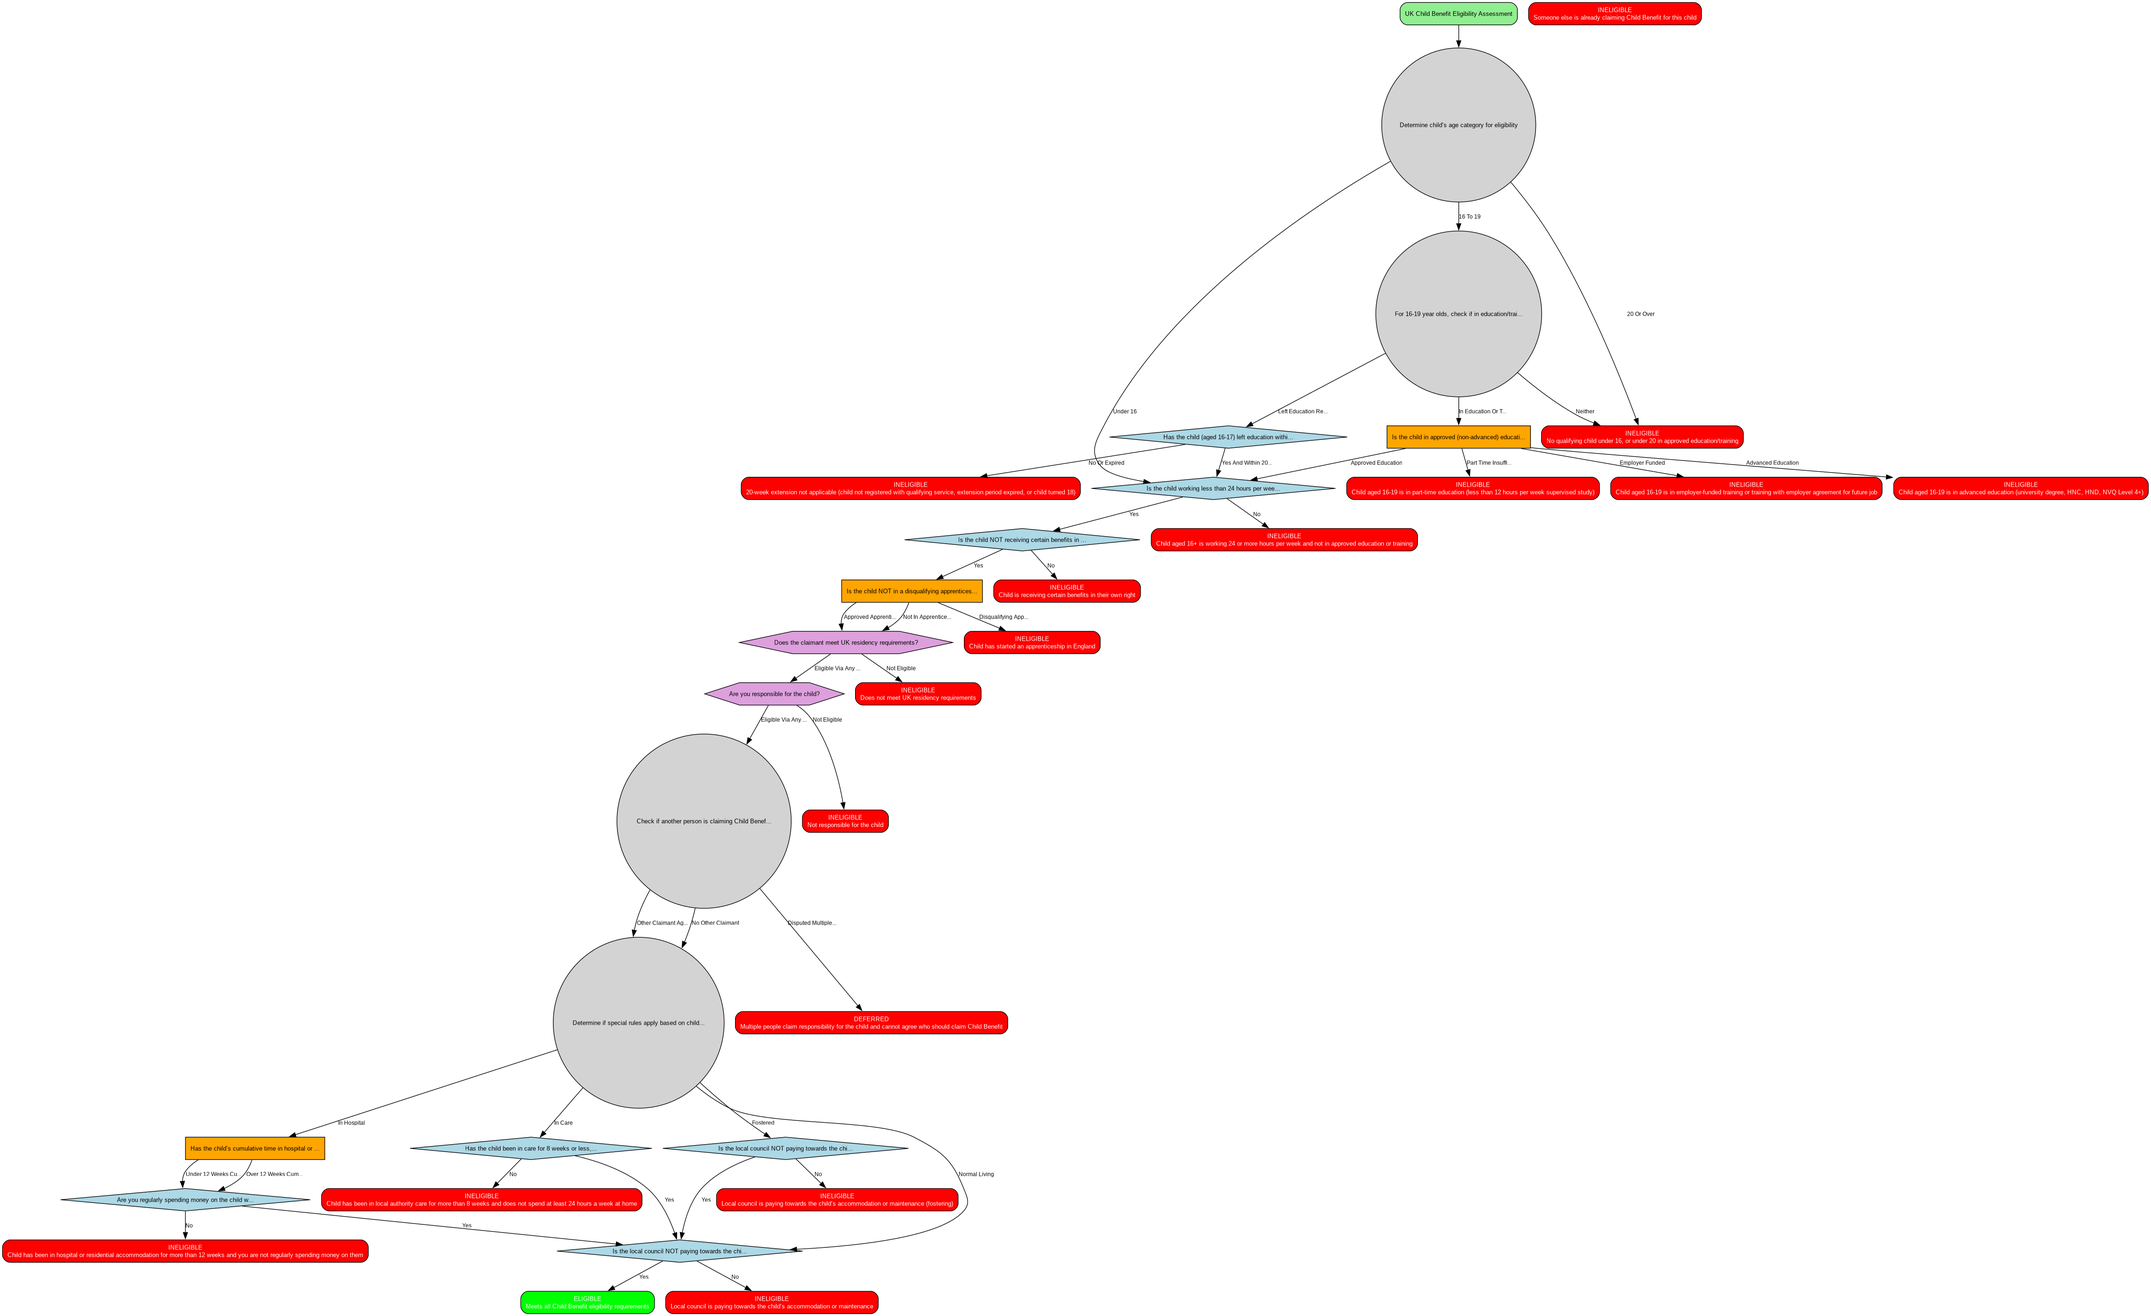
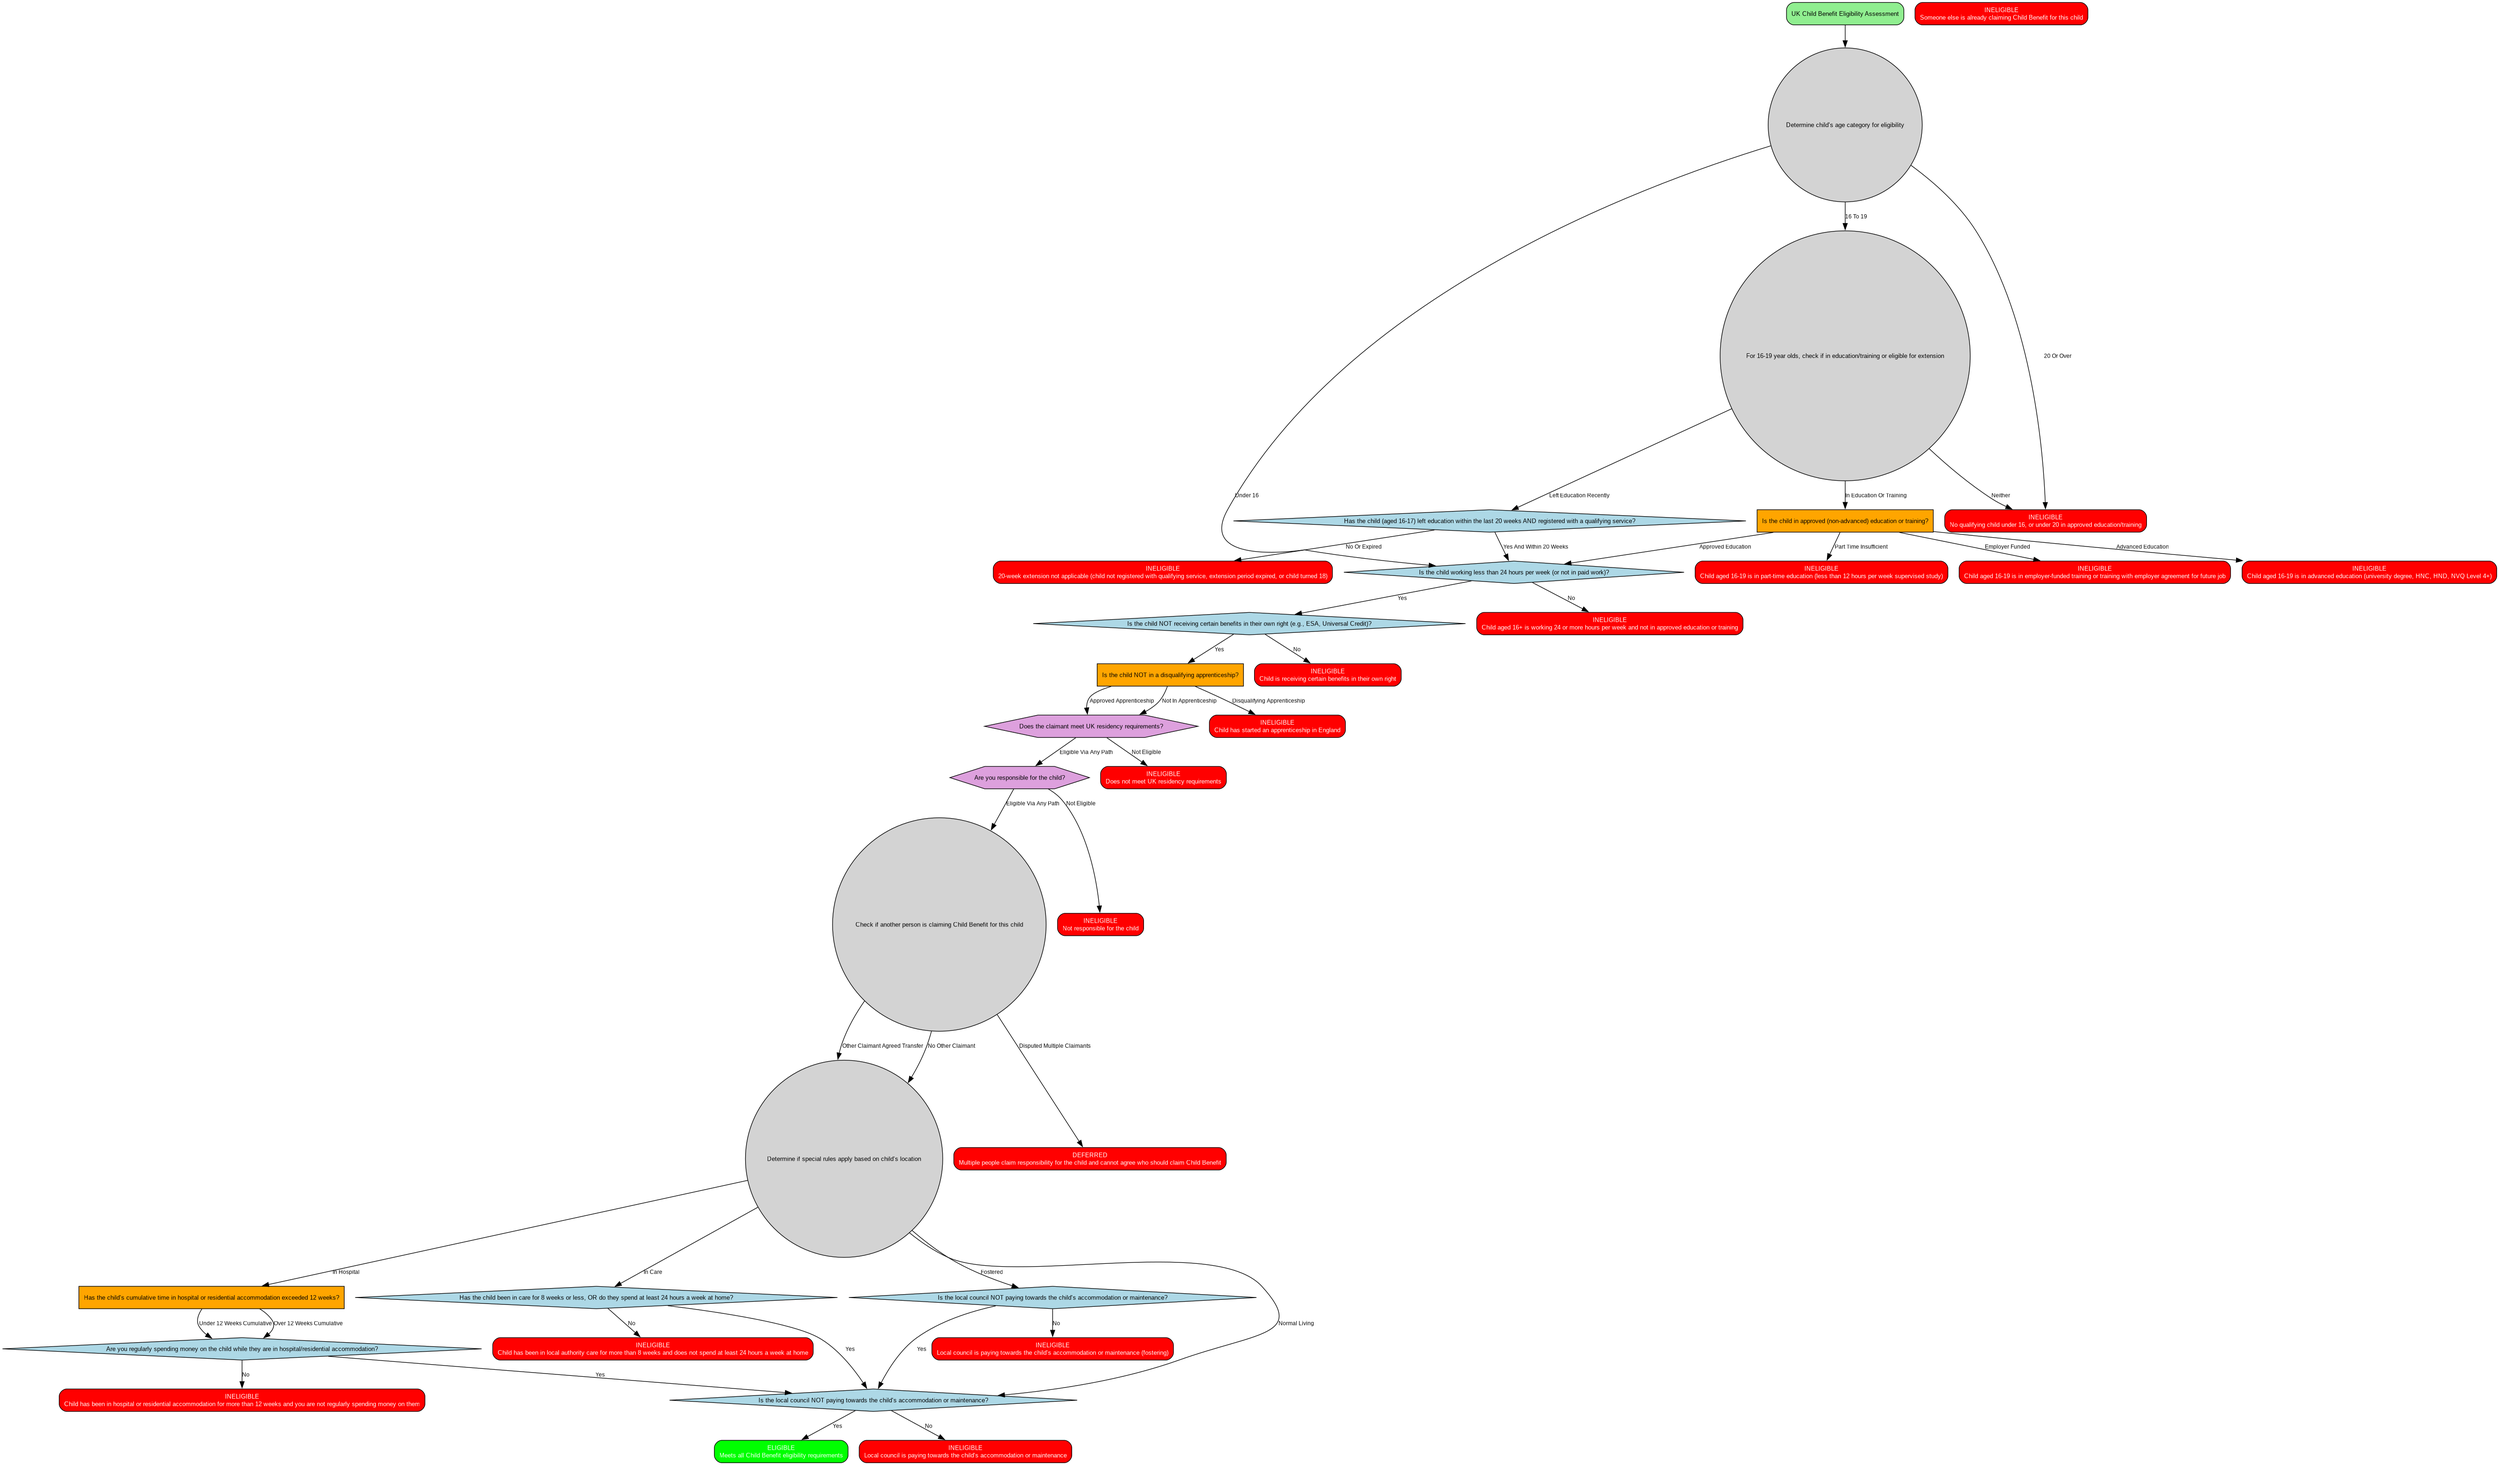
Stop truncating labels

Changed region(s): [[0.0, 0.0, 1.0, 0.9993]]

diff --git a/prompts/manual/graph_creation/validate_and_visualize.py b/prompts/manual/graph_creation/validate_and_visualize.py
@@ -253,8 +253,8 @@ def generate_graphviz(data: Dict, output_file: str):
         else:
             label = node.get('question', node.get('description', node_id))
             # Truncate long labels
-            if len(label) > 50:
-                label = label[:47] + '...'
+            #  if len(label) > 50:
+            #      label = label[:47] + '...'
             style = type_styles.get(node_type, {})
 
         dot.node(node_id, label, **style)
@@ -264,8 +264,8 @@ def generate_graphviz(data: Dict, output_file: str):
             for outcome, target in node['outcomes'].items():
                 # Simplify outcome labels
                 edge_label = outcome.replace('_', ' ').title()
-                if len(edge_label) > 20:
-                    edge_label = edge_label[:17] + '...'
+                #  if len(edge_label) > 20:
+                #      edge_label = edge_label[:17] + '...'
                 dot.edge(node_id, target, label=edge_label)
         elif 'next' in node and node['next']:
             dot.edge(node_id, node['next'])
